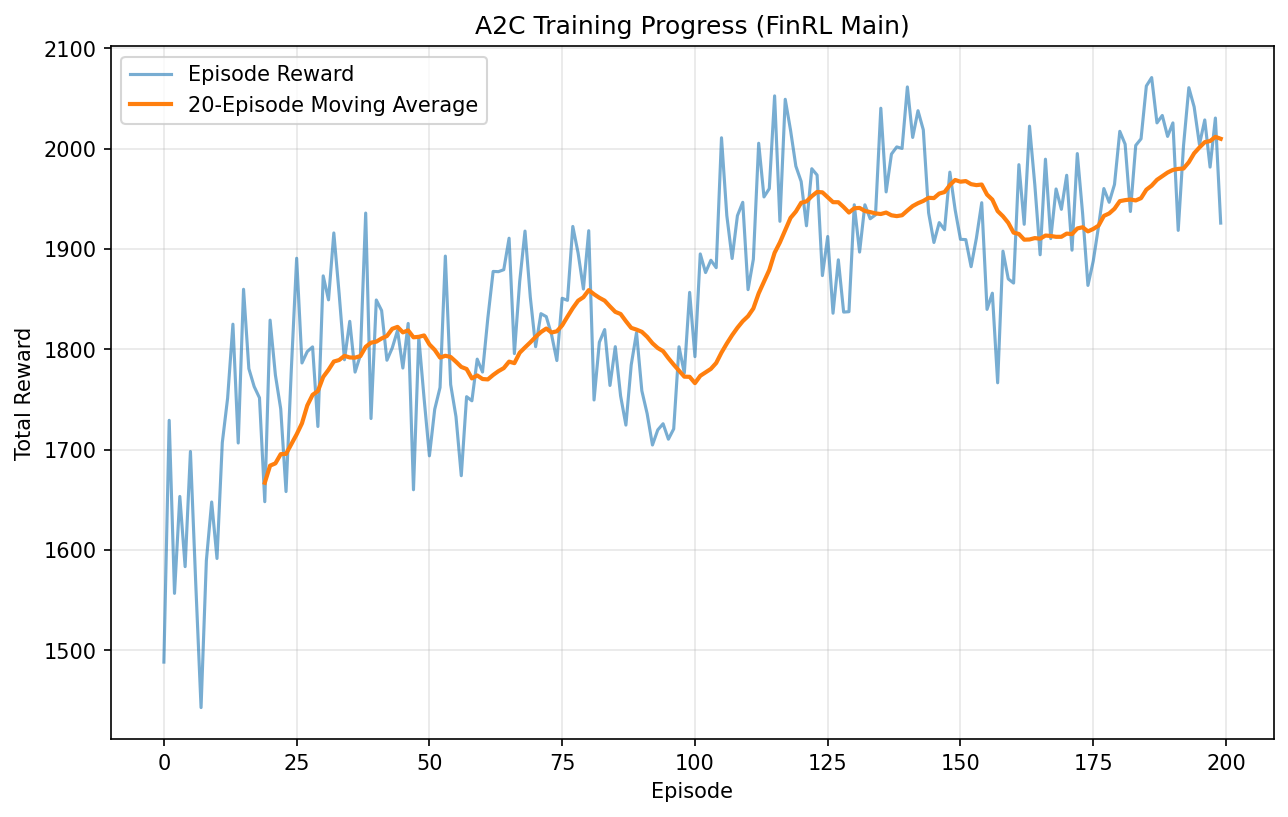
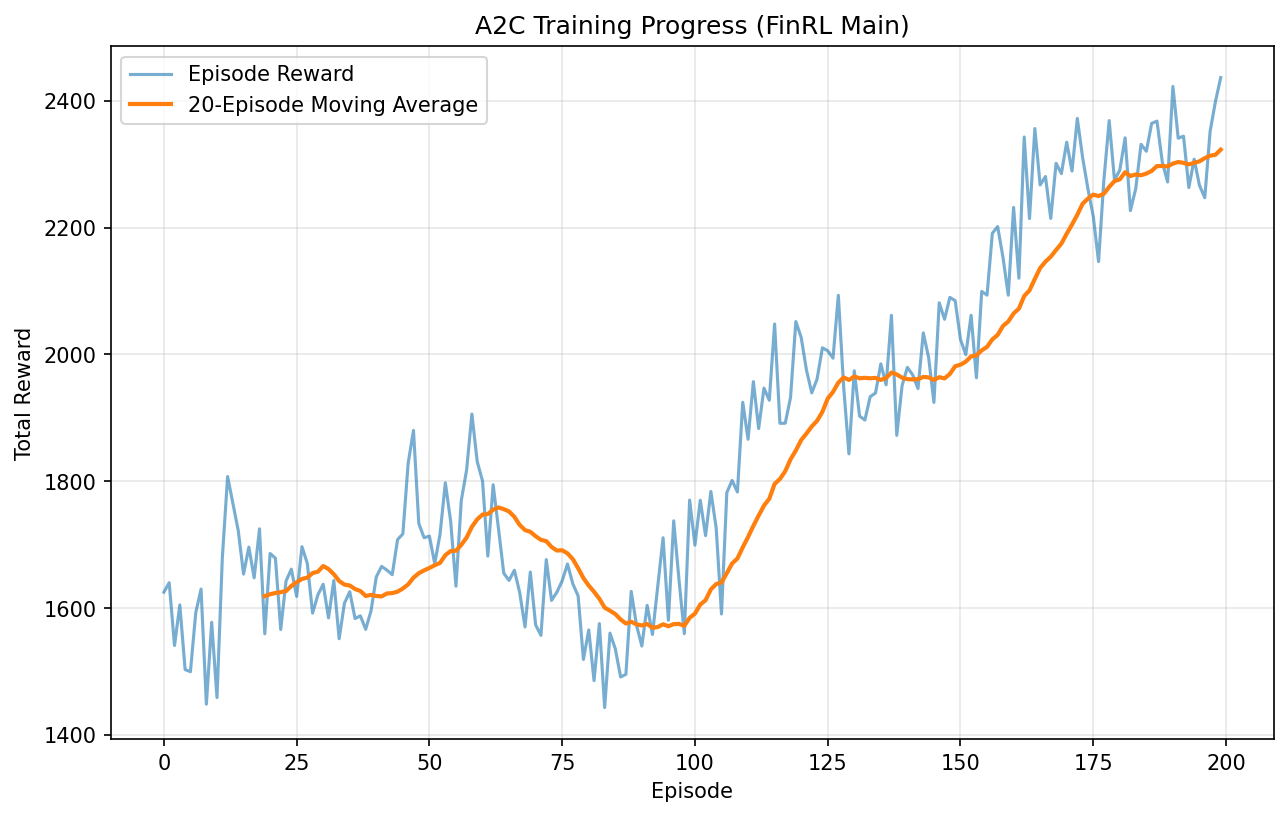
added sliding window

diff --git a/Final/Three Agent/Finrlmain.py b/Final/Three Agent/Finrlmain.py
@@ -94,6 +94,9 @@ def _init_override(self, df, stock_dim, hmax, initial_amount, transaction_cost_p
     self.state = np.vstack([self.covs, tech_array]).astype(np.float32)
     regime_row = np.full((1, self.state.shape[1]), current_regime).astype(np.float32)
     self.state = np.vstack([self.state, regime_row])
+    
+    # NEW: State Memory for temporal stacking
+    self.state_memory = [self.state] * self.lookback
 
     self.terminal = False
     self.turbulence_threshold = turbulence_threshold
@@ -132,6 +135,10 @@ def _step_override(self, actions):
                 current_regime = regime_match.values[0]
         regime_row = np.full((1, self.state.shape[1]), current_regime).astype(np.float32)
         self.state = np.vstack([self.state, regime_row])
+        
+        # Update state memory
+        self.state_memory.pop(0)
+        self.state_memory.append(self.state)
 
         portfolio_return = sum(((self.data.close.values / last_day_memory.close.values) - 1) * weights)
         self.portfolio_return_memory.append(portfolio_return)
@@ -139,7 +146,7 @@ def _step_override(self, actions):
         self.portfolio_value = self.portfolio_value * (1 + portfolio_return)
         self.asset_memory.append(self.portfolio_value)
         self.reward = portfolio_return * self.reward_scaling
-        return self.state, self.reward, self.terminal, False, {}
+        return np.array(self.state_memory), self.reward, self.terminal, False, {}
 
 def _reset_override(self, seed=None, options=None):
     if seed is not None:
@@ -159,13 +166,16 @@ def _reset_override(self, seed=None, options=None):
             current_regime = regime_match.values[0]
     regime_row = np.full((1, self.state.shape[1]), current_regime).astype(np.float32)
     self.state = np.vstack([self.state, regime_row])
+    
+    # NEW: State Memory
+    self.state_memory = [self.state] * self.lookback
 
     self.portfolio_value = self.initial_amount
     self.terminal = False
     self.portfolio_return_memory = [0]
     self.actions_memory = [[1/self.stock_dim]*self.stock_dim]
     self.date_memory = [self.unique_dates[self.day]]
-    return self.state, {}
+    return np.array(self.state_memory), {}
 
 def _seed_override(self, seed=None):
     self.np_random, seed = seeding.np_random(seed)
@@ -263,7 +273,7 @@ def add_covariance_matrix(df, lookback=252):
     return df
 
 print("\nComputing covariance matrix...")
-df = add_covariance_matrix(df, lookback=252)
+df = add_covariance_matrix(df, lookback=20)
 print(f"Data shape with covariance: {df.shape}")
 
 print("="*50)
@@ -300,7 +310,7 @@ env = StockPortfolioEnv(
     state_space=len(TICKER_LIST),
     action_space=len(TICKER_LIST),
     tech_indicator_list=["macd", "rsi", "cci", "adx"],
-    lookback=252,
+    lookback=20,
     day=0,
     regime_df=regime_df # Pass regimes to env
 )
@@ -308,7 +318,7 @@ env = StockPortfolioEnv(
 # Update observation space shape in env object manually due to augmentation
 env.observation_space = spaces.Box(
     low=-np.inf, high=np.inf, 
-    shape=(env.state.shape[0], env.state.shape[1]), 
+    shape=(env.lookback, env.state.shape[0], env.state.shape[1]), 
     dtype=np.float32
 )
 
@@ -340,9 +350,11 @@ class Actor(nn.Module):
         # Better: keep track of where the regime info is. 
         # In our env, it's the last row of the matrix.
         
-        # Assuming x is flattened [batch, total_features]
-        # Regime info is in the last n_assets elements (since we appended a full row)
-        # We take the mean of the last assets to get the regime (they should all be the same)
+        # Selection logic (Multi-agent routing)
+        # Regime info is in the last row of the LAST state in the sequence
+        # x shape: [batch, window, features, assets] -> flattened to [batch, window*features*assets]
+        # In our case, features_per_day = features * assets
+        # The very last element of the flattened vector for each batch is the regime of the current day
         regime_indices = x[:, -1].long() 
         
         features = self.feature_extractor(x)
@@ -384,7 +396,7 @@ def train_a2c(
     lr=1e-4,    # Slightly lower for Dirichlet stability
     value_coef=0.5,
     entropy_coef=0.01, # Increased from 0.01 to 0.05 to encourage spread
-    batch_size=64
+    batch_size=20
 ):
     obs_dim = np.prod(env.observation_space.shape)
     act_dim = env.action_space.shape[0]
